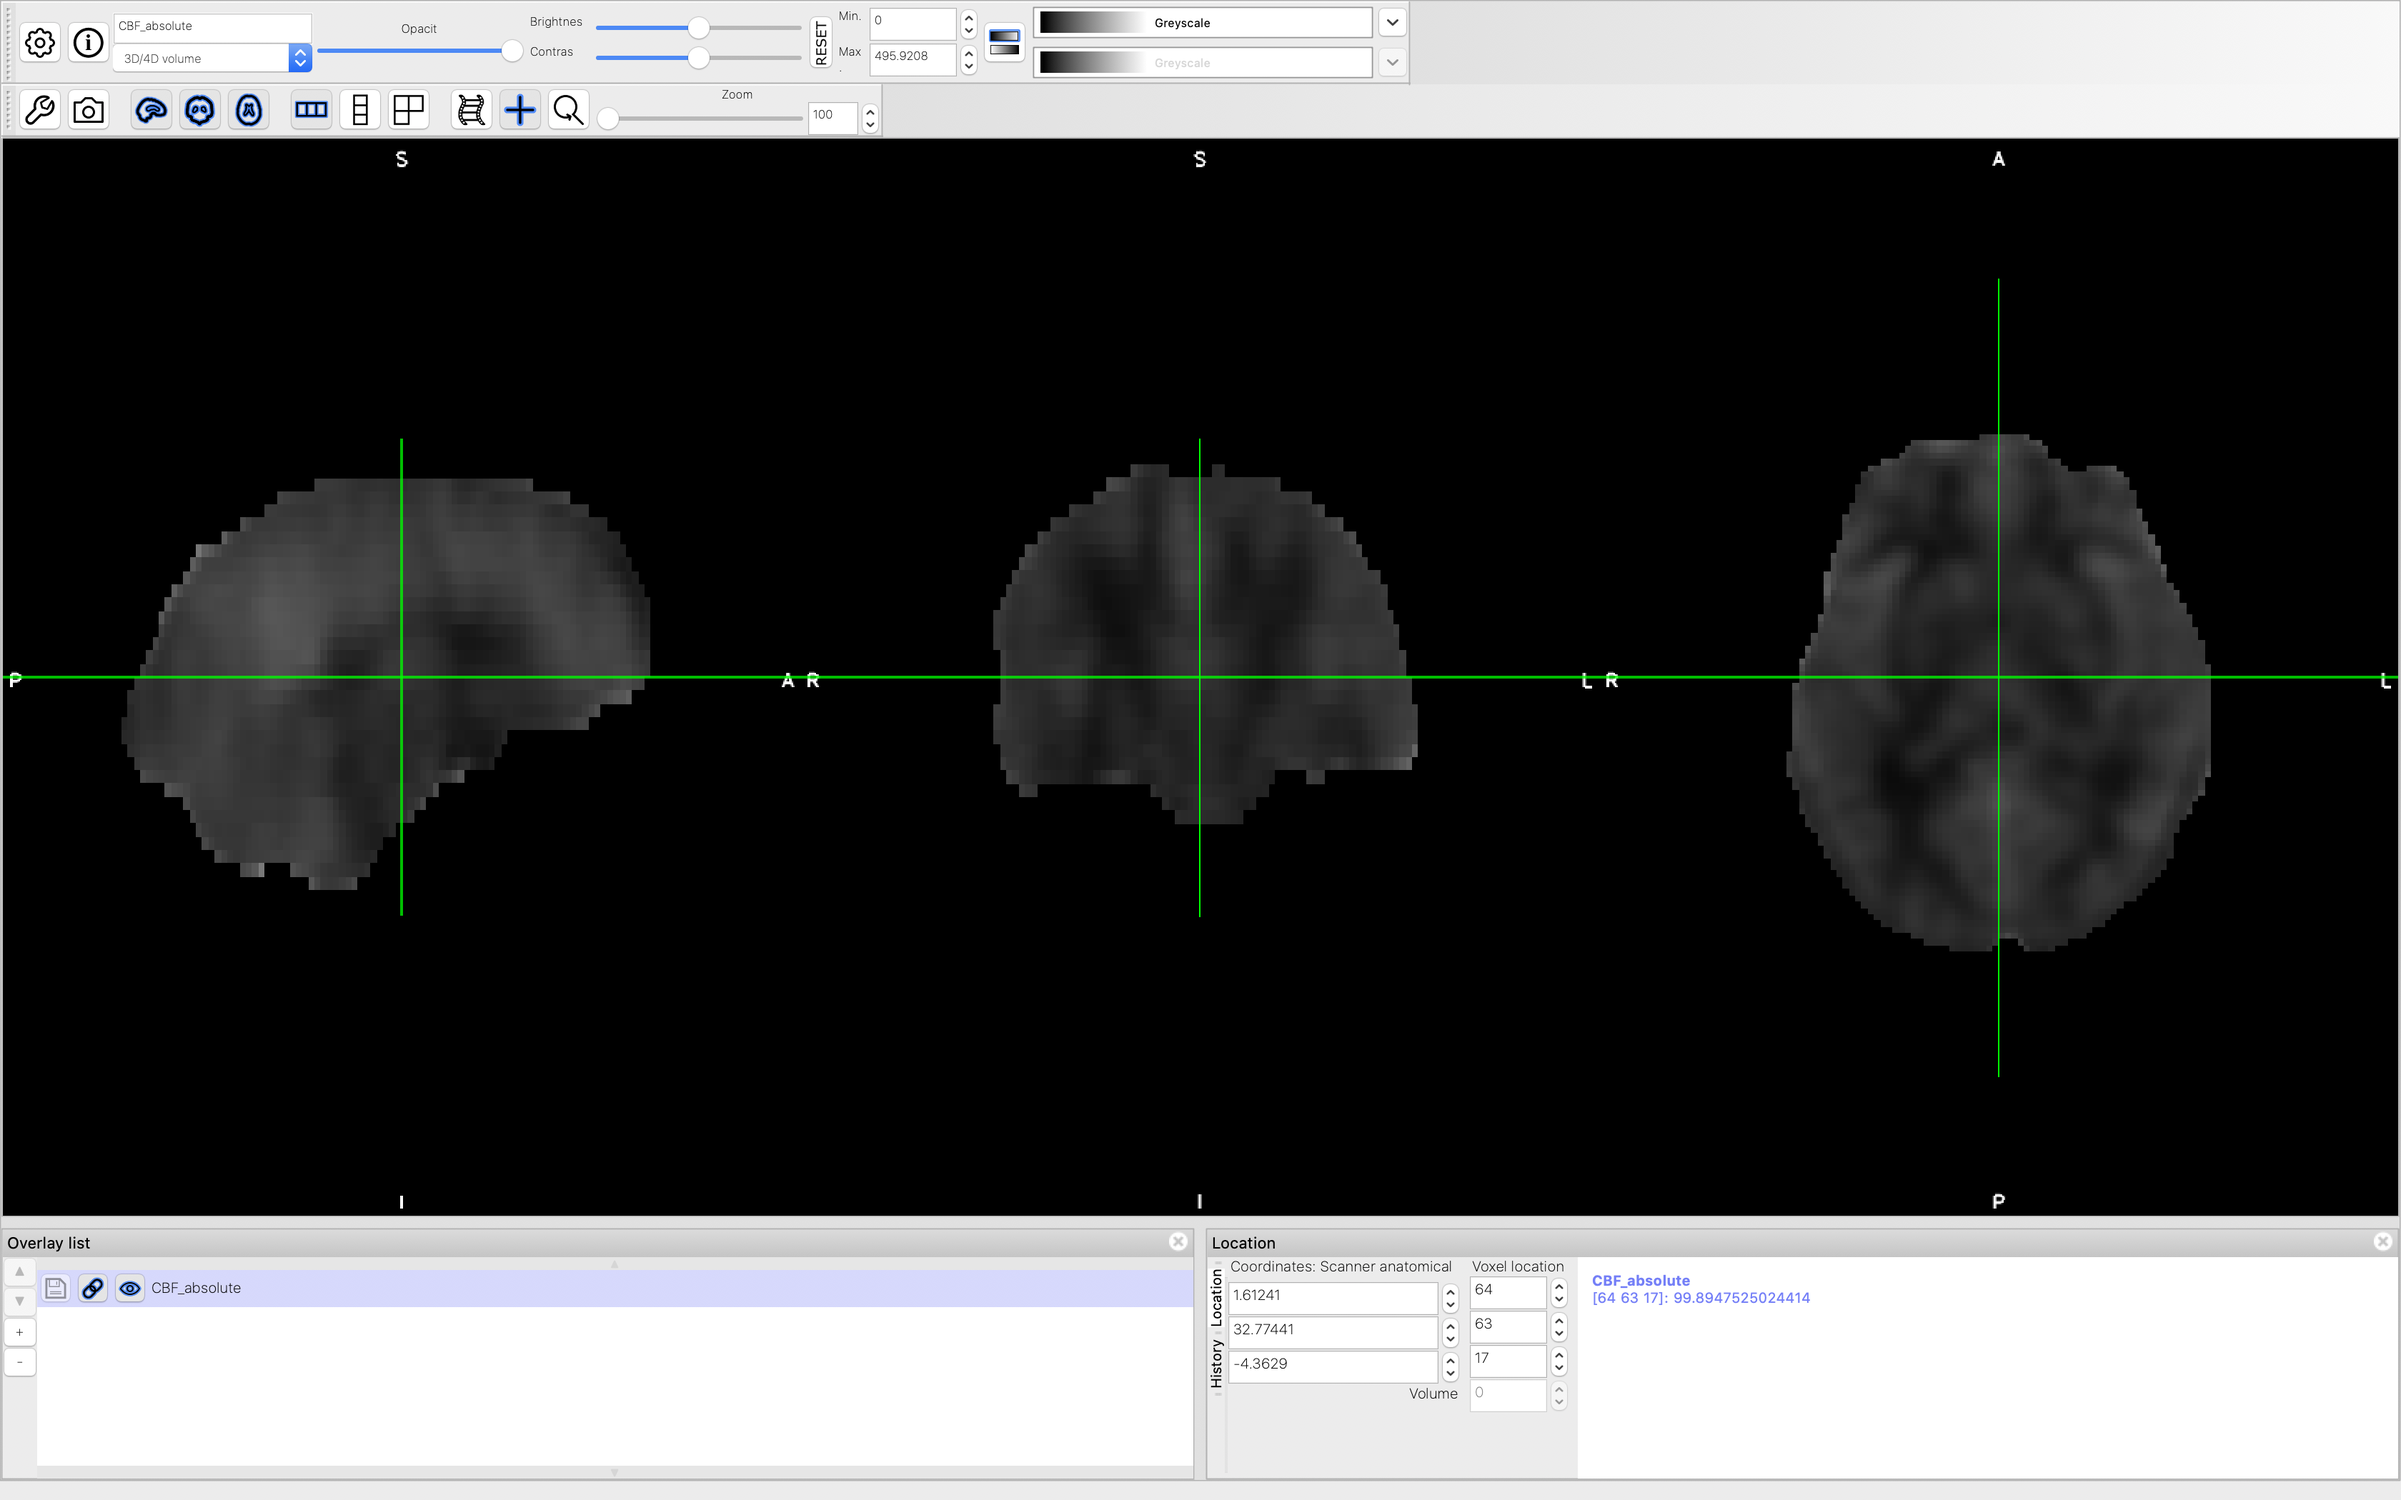
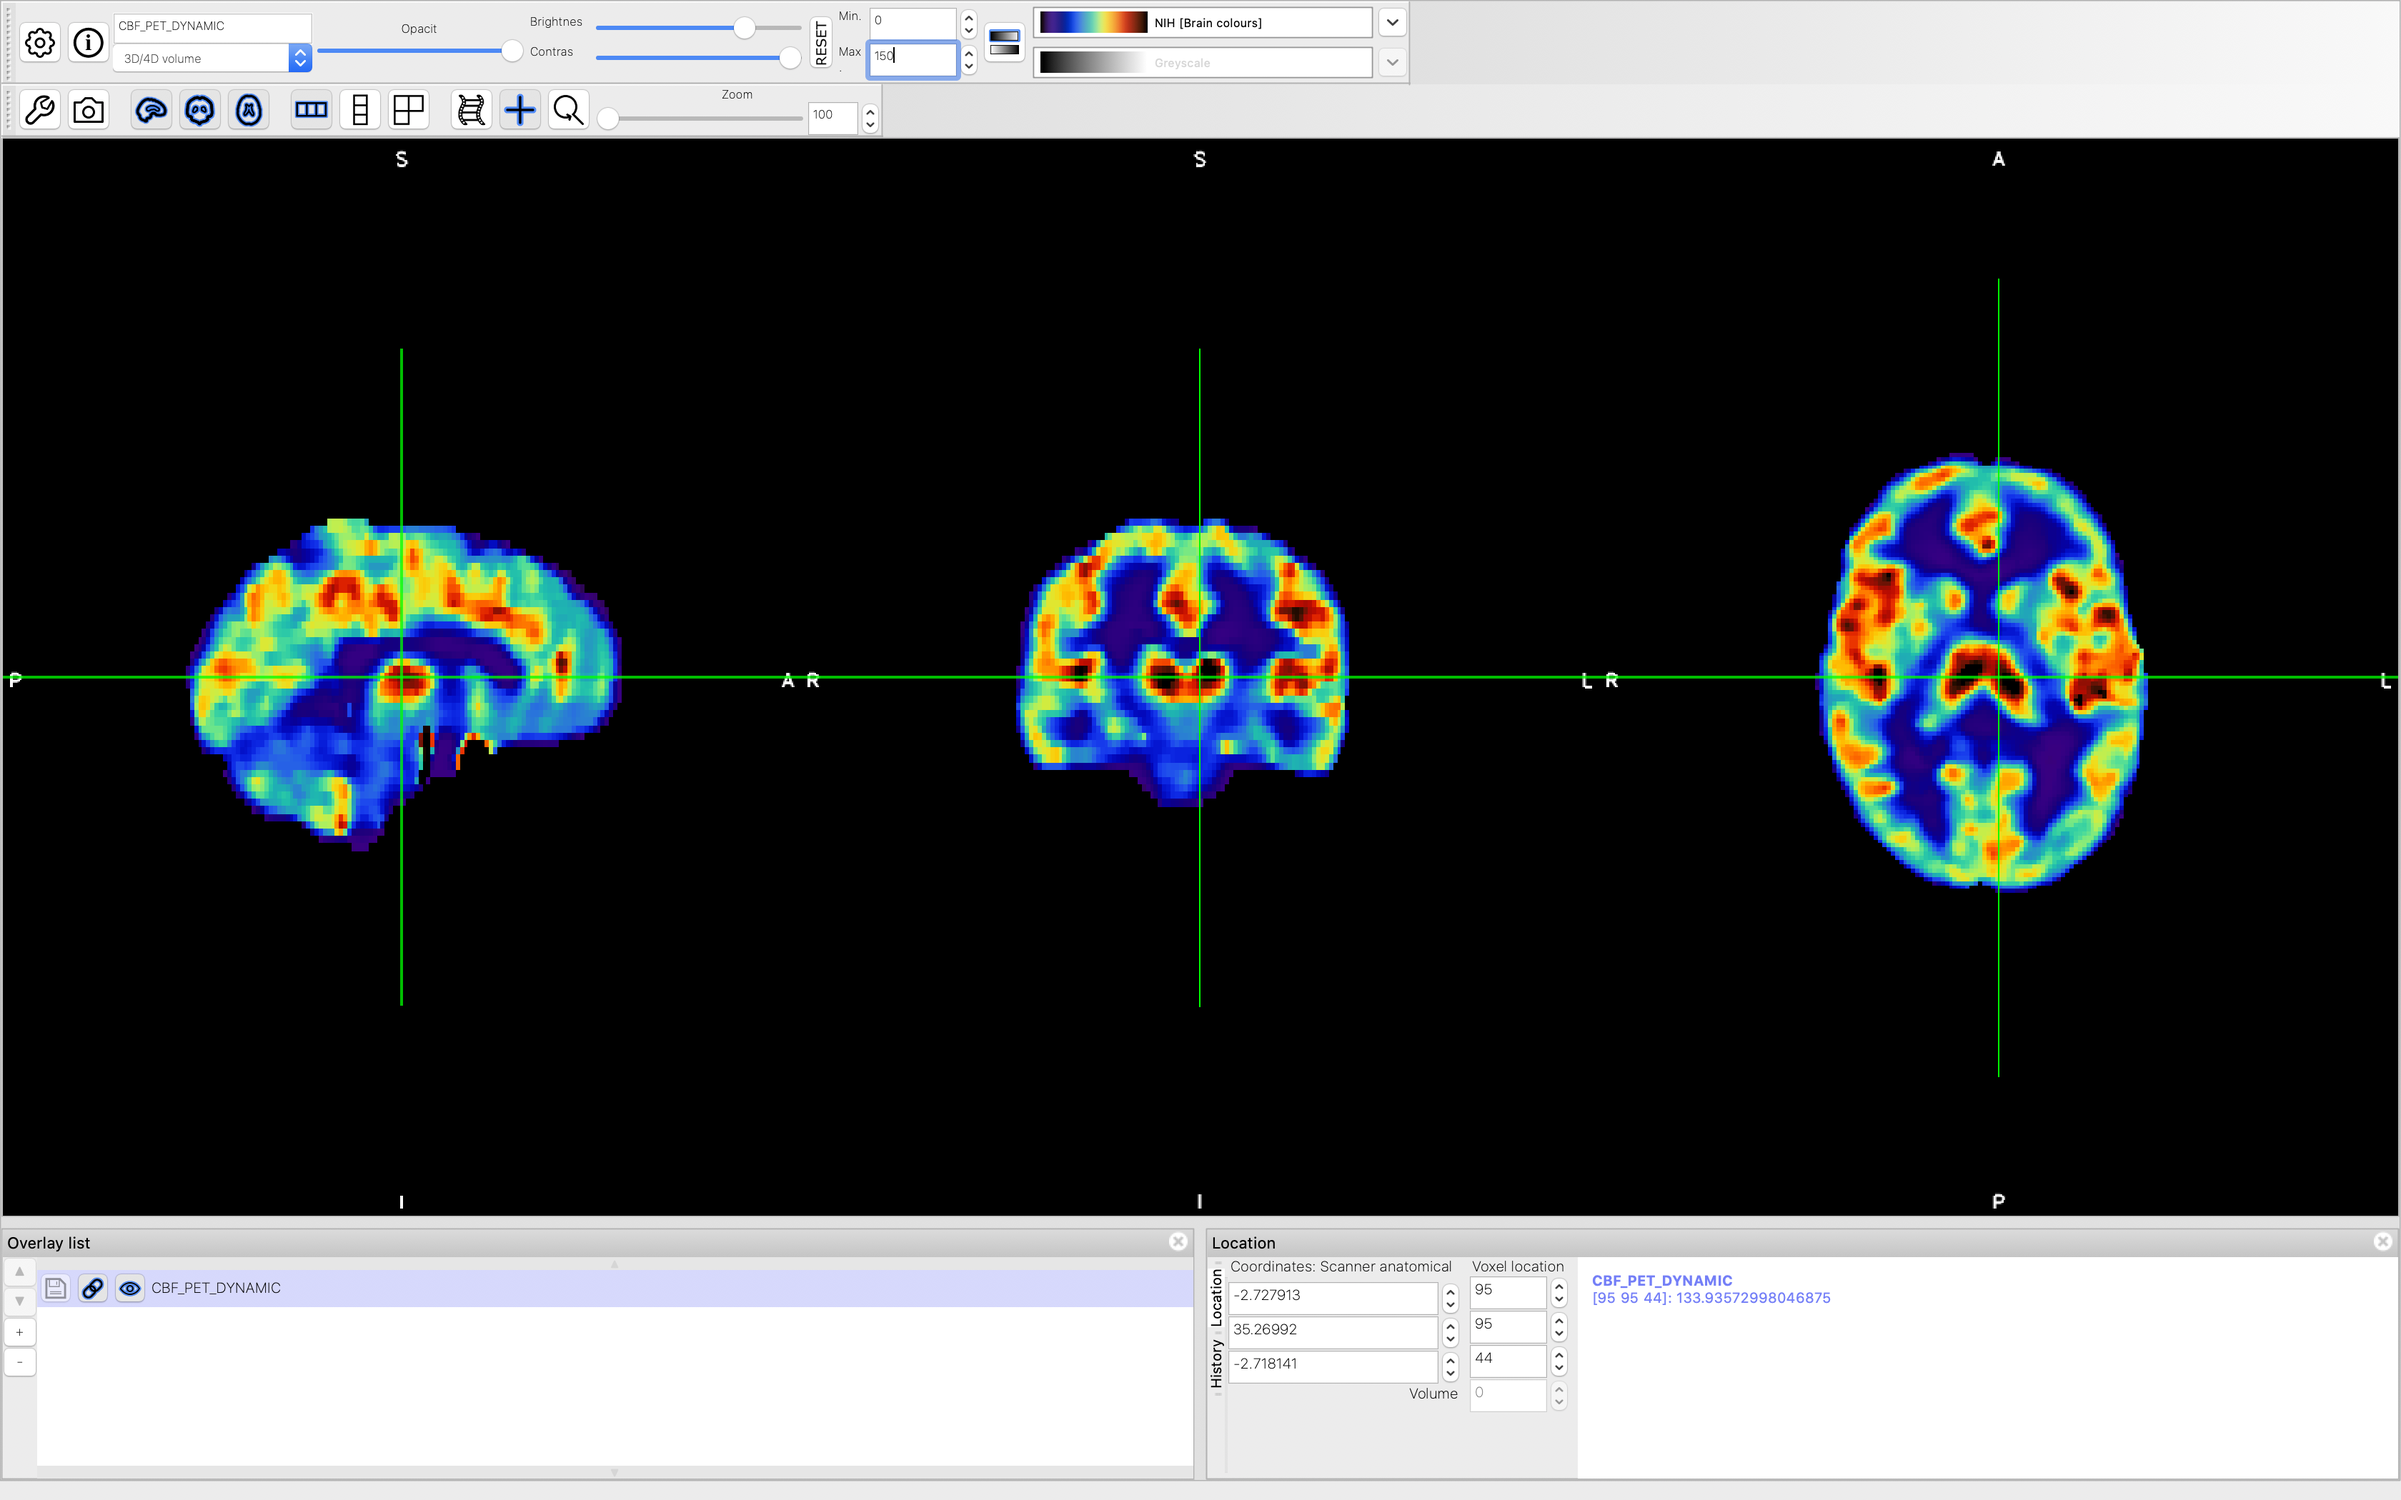
pet cbf quantification

diff --git a/cbf_quantification.rst b/cbf_quantification.rst
@@ -4,47 +4,56 @@ CBF Quantification
 Introduction
 ----------------
 
-The goal of this section is to compute voxel-wise CBF using the data that we have pre-processed in previous steps. We will also tranform the quantified CBF image from ASL space to standard MNI-152 2mm space for group analysis.
+The goal of this section is to compute voxel-wise CBF using the data that we have pre-processed in previous steps. We will also tranform the quantified CBF image from PET space to standard MNI-152 2mm space for group analysis.
 
 
 CBF Quantification
 ------------------
 
-We are going to use the `oxford_asl <https://fsl.fmrib.ox.ac.uk/fsl/fslwiki/oxford_asl>`_ tool to quantify CBF from our the mean ASL label/control difference data. Here, we need to specify our acquisition parameters:
+We are going to use the `fabber <https://fsl.fmrib.ox.ac.uk/fsl/fslwiki/FABBER>`_ tool to quantify CBF from our dynamic PET data. The process includes 2 steps: (1), we estimate the voxel-wise CBF using Bayesian inference; (2) we apply spatial regularization to improve the CBF quantification.
 
-Inversion time (--tis): 3.475 the summation of labeling duration and post-labeling delay
+Step 1: CBF quantification using Bayesian inference. In order to use `fabber <https://fsl.fmrib.ox.ac.uk/fsl/fslwiki/FABBER>`_, we need to provide a list of options that specifies model and scanning parameters. An exmaple option file (fabber_options_PET_DYNAMIC_step_1.txt) has been provided for you. Below is the description of each of the options:
 
-Labeling duration (--bolus): 1.45;
+--model=pet_1TCM : Here we are using 1-compartment model
 
-Labeling duration is the same in all voxels (--fixbolus)
+--method=vb : Here we are using variational Bayesian inference
 
-Labeling technique is PCASL or CASL (--casl)
+--noise=white : Here we assume the noise of our data is in normal distribution
 
-T1 relaxation of tissue (--t1): 1.3;
+--data-order=singlefile : Here we are providing a single file to analyze
 
-T1 relaxation of arterial blood (--t1b): 1.65
+--aif=signal : Here we specify that the AIF of our dynamic PET is a list of signals
 
-Use spatial priors (--spatial)
+--aif-data=AIF.txt : Here we specify the file name of our AIF file
 
-Ignore arterial blood component (--artoff)
+--time-data=time.txt : Here we specify the file name that contains time of each signal
 
-The command is ::
+--allow-bad-voxels : Here we allow bad voxels to improve the robustness of our estimation
 
-    oxford_asl -i asl_diff_mean -o output_cbf -m mask --tis 3.475 --bolus 1.45 --fixbolus --casl --t1 1.3 --t1b 1.65 --spatial --artoff
+Now we can run the command to estimate voxel-wise CBF::
 
-The file output_cbf/native_space/perfusion.nii.gz is the estimated CBF image. We can have a look at it in FSLeyes
+    fabber_pet --data=DYNAMIC_4MM_FILTER --output=fabber_output_step1 -@ fabber_options_PET_DYNAMIC_step_1.txt
 
-.. image:: /images/cbf_quantification/cbf_relative.png
+The file fabber_output_step1/mean_K1.nii.gz is the estimated CBF image in relative units. We can have a look at it in FSLeyes
 
-Note that this is not the CBF image in absolute units (ml/100g/min), rather it is in arbitrary units. But it is important to check our results here. If everything works fine, we can move on to the calibration step.
+
+Step 2: Apply spatial regularization to improve CBF estimation. We will use the estimation results from Step 1 as the starting point to improve our CBF estimation by applying spatial regularization. Here, we will need a different option file (fabber_options_PET_DYNAMIC_step_2.txt) for the fabber command. The new options are:
+
+--method=spatialvb : Here we are using spatially variational Bayesian inference
+
+--continue-from-mvn=fabber_output_step1/finalMVN : Here we use the results from Step 1 to start the estimation in Step 2.
+
+Now we can run the command to apply spatial regularization::
+
+    fabber_pet --data=DYNAMIC_4MM_FILTER --output=fabber_output_step2 -@ fabber_options_PET_DYNAMIC_step_2.txt
 
 
 Calibration
 -----------
 
-The goal of calibration is to convert CBF from arbitrary units to the familiar ml/100g/min unit. Here, we need to use the M0a data that we derived before. We also need to consider the impact of labeling efficiency (in our case it is 85%) as well as the signal loss due to background suppression. Since we used 3 background suppression pulses, each with a efficiency of 91%, the effective signal should be 91% * 91% * 91% = 75%. Finally, we need to convert the unit from s-1 to ml/100g/min (a factor of 6000). Now let's incorporate all the information in our calibration command::
+After model-fitting using FABBER, the estimated CBF data is in s-1 unit. In general, we often use the unit of ml/100g/min. We can also apply a median filter to remove some of the inpulse noise. Therefore, we will convert the unit using the following command::
 
-    fslmaths output_cbf/native_space/perfusion -div M0a -div 0.85 -div 0.75 -mul 6000 -mas mask CBF_absolute
+	fslmaths fabber_output_step2/mean_K1 -mul 6000 -fmedian CBF_PET_DYNAMIC
 
 Now let's have a look at CBF_absolute file in FSLeyes. The value of each voxel should be in ml/100g/min unit.
 
@@ -56,10 +65,5 @@ Transform from ASL to MNI-152 2mm Space
 
 Finally, we can transform the absolute CBF image to MNI-152 2mm standard space using linear and non-linear registration::
 
-    applywarp --ref=${FSLDIR}/data/standard/MNI152_T1_2mm --in=CBF_absolute --warp=fsl_anat_dir.anat/T1_to_MNI_nonlin_field --premat=output_asl_reg/asl2struct.mat --out=CBF_absolute_standard
-
-
-
-
-
+    applywarp --ref=${FSLDIR}/data/standard/MNI152_T1_2mm --in=CBF_PET_DYNAMIC --warp=fsl_anat_dir.anat/T1_to_MNI_nonlin_field --premat=output_pet_reg/pet2struct.mat --out=CBF_absolute_standard
 
